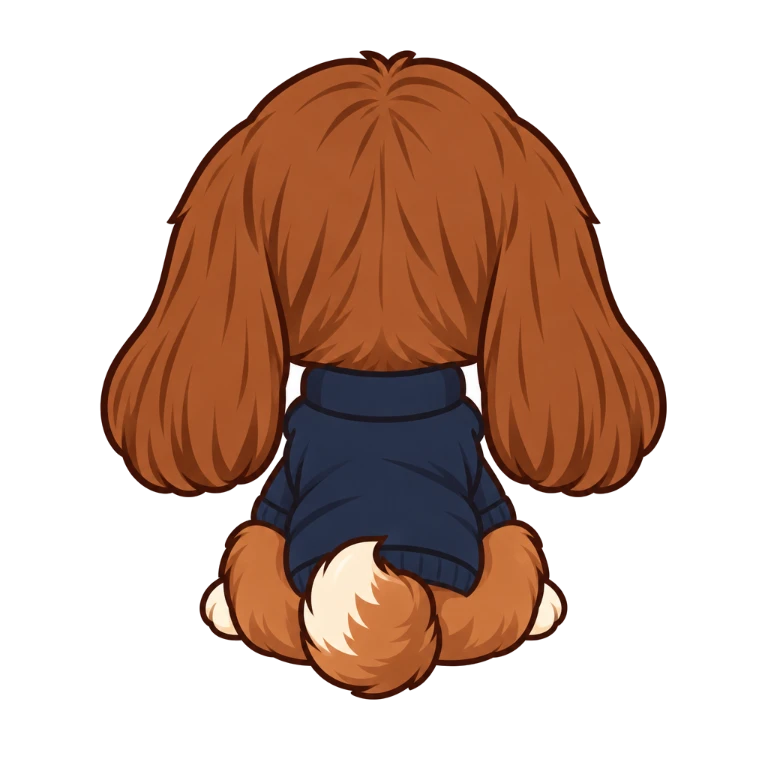
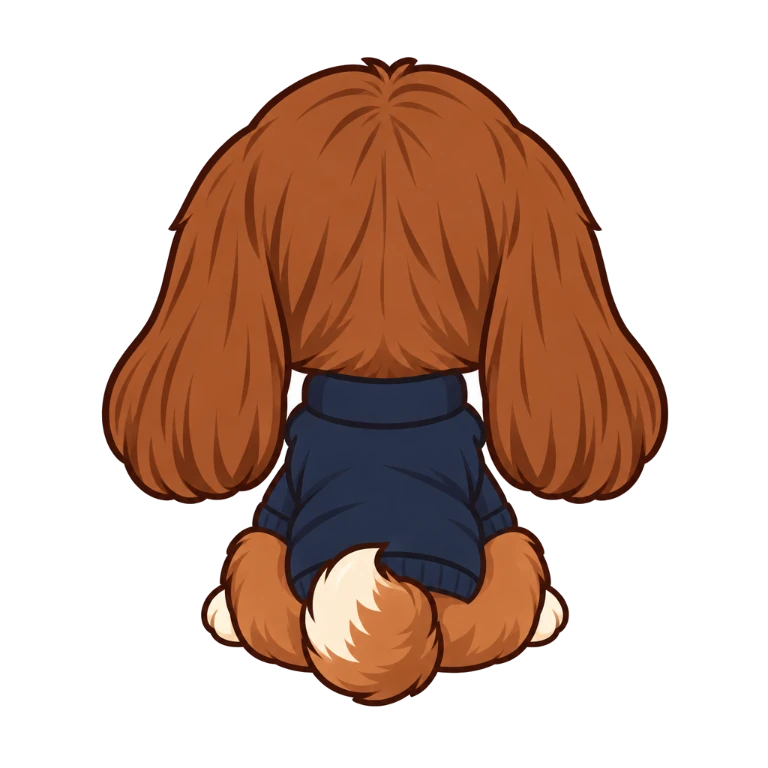
Update the training game: turn-round frames, warp, latest rig changes

Changed region(s): [[0.125, 0.0625, 0.875, 0.9375], [0.75, 0.25, 0.7812, 0.3125], [0.5312, 0.3125, 0.5625, 0.3438]]

diff --git a/train-rig.js b/train-rig.js
@@ -12,7 +12,11 @@
 // All numbers are in the units of her 1024 px picture, laid in the middle of a larger square (PAD units of room on every side for props and the little things that float up).
 // The first puppets (a head drawn as SVG, then a head from the image model with the glasses, eyes and brows cut from her avatar laid over it) are in archive/.
 
+import { createWarp } from "./train-warp.js";
+
 export const SIDE = 1184, PAD = 80;
+// She can turn all the way round: the pictures of her seen from the front (her face of the moment), at 45, 90 and 135 degrees, from behind, and the same three mirrored for the other half of the turn.
+// h = the three-quarter / side / back-three-quarter pictures with the happy face, k = with the sad face (she turns away from him sulking).
 const U = (v) => `${((v + PAD) / SIDE) * 100}%`; // a position in her picture -> a position in the square
 const S = (v) => `${(v / SIDE) * 100}%`; // a size
 const FACES = ["sly", "sblink", "blink", "listen", "happy", "smug", "blank", "sulk", "sorry", "angry", "shock", "eat", "dizzy", "heart", "kiss", "dead", "wince"]; // the pictures of her
@@ -50,30 +54,59 @@ export const EXPR = {
   wince: { img: "wince" },
 };
 
-export function createRig(host) {
+// How her ears and tail move for each expression. ears: how far the ears swing out (degrees at the tip; negative = they hang in / back), wag: [how far the tail swings
+// each way (degrees), how many times a second], tail: where the tail rests (degrees; positive = it droops).
+const MOOD = {
+  sly: { ears: 0.5, wag: [5, 0.7], tail: 0 }, listen: { ears: 2.5, wag: [6, 1.1], tail: -2 }, happy: { ears: 4, wag: [17, 3.2], tail: -2 }, glad: { ears: 3, wag: [12, 2.4], tail: -2 },
+  smug: { ears: 1, wag: [6, 0.9], tail: 0 }, cheeky: { ears: 0.5, wag: [5, 0.8], tail: 0 }, blank: { ears: -1, wag: [1.5, 0.5], tail: 3 }, sulk: { ears: -3.5, wag: [0, 1], tail: 12 },
+  sorry: { ears: -2.5, wag: [2, 1.6], tail: 9 }, angry: { ears: -4.5, wag: [3, 2.6], tail: -3 }, shock: { ears: 3.5, wag: [0, 1], tail: -8 }, eat: { ears: 1.5, wag: [9, 2.2], tail: -1 },
+  proud: { ears: 1.5, wag: [5, 0.8], tail: -2 }, dizzy: { ears: -1, wag: [7, 1.4], tail: 2 }, heart: { ears: 3, wag: [15, 2.8], tail: -2 }, kiss: { ears: 2.5, wag: [12, 2.4], tail: -2 },
+  dead: { ears: -4, wag: [0, 1], tail: 14 }, wince: { ears: -4.5, wag: [0, 1], tail: -9 },
+};
+const rad = (d) => (d * Math.PI) / 180;
+
+export function createRig(host, opts = {}) {
   host.classList.add("pup");
   const box = `left:${U(0)};top:${U(0)};width:${S(1024)};height:${S(1024)}`;
   host.innerHTML = `
     <div class="pup-turn">
       <div class="pup-act"><div class="pup-pose"><div class="pup-dog">
         ${FACES.map((n) => `<img class="pup-x ${n}" src="${pic(n)}" alt="" draggable="false" style="${box}">`).join("")}
+        <canvas class="pup-gl" style="${box}" hidden></canvas>
       </div><svg class="pup-fx" viewBox="0 0 ${SIDE} ${SIDE}" aria-hidden="true"><g transform="translate(${PAD} ${PAD})">${FACE_FX}</g></svg></div></div>
-      <div class="pup-back" aria-hidden="true"><img src="${pic("back")}" alt="" draggable="false" style="${box}"></div>
+      <div class="pup-views" aria-hidden="true">
+        ${["h", "k"].flatMap((v) => [45, 90, 135].flatMap((a) => [`<img class="vw ${v}${a}" src="${pic(v + a)}" alt="" draggable="false" style="${box}">`, `<img class="vw mir ${v}${a}" src="${pic(v + a)}" alt="" draggable="false" style="${box}">`])).join("")}
+        <img class="vw back" src="${pic("back")}" alt="" draggable="false" style="${box}">
+      </div>
     </div>
     <div class="pup-props"></div>
     <div class="pup-bits"></div>`;
   const $ = (s) => host.querySelector(s);
   const turn = $(".pup-turn"), act = $(".pup-act"), pose = $(".pup-pose"), dog = $(".pup-dog"), props = $(".pup-props"), bits = $(".pup-bits");
   const face = Object.fromEntries(FACES.map((n) => [n, $(`.pup-x.${n}`)]));
-  const ready = Promise.all([...host.querySelectorAll("img")].map((i) => (i.decode ? i.decode().catch(() => {}) : Promise.resolve())));
   const calm = typeof matchMedia === "function" && matchMedia("(prefers-reduced-motion: reduce)").matches;
   let current = "sly", shown = "";
+  let warp = null, glDirty = true;
+  const canvas = $(".pup-gl");
+  const decoded = Promise.all([...host.querySelectorAll("img")].map((i) => (i.decode ? i.decode().catch(() => {}) : Promise.resolve())));
+  const ready = (async () => {
+    await decoded;
+    if (opts.warp === false) return;
+    const maskImg = new Image(); maskImg.src = "assets/train/dog-masks.png";
+    try { await maskImg.decode(); } catch { return; }
+    try { warp = createWarp(canvas, maskImg); } catch { warp = null; }
+    if (!warp) return;
+    for (const [k, el] of Object.entries(face)) warp.texture(k, el);
+    canvas.hidden = false; host.classList.add("gl"); glDirty = true;
+    startLoop();
+  })();
   let blinkTimer = null, idleOn = false, breathing = null;
 
   // ─ expression ─
   function show(key) {
     if (shown === key) return;
-    shown = key;
+    shown = key; glDirty = true;
+    if (calm) drawGl(); // (with reduced motion there is no loop drawing her all the time: draw her when her face changes)
     for (const [k, el] of Object.entries(face)) el.classList.toggle("on", k === key);
   }
   function set(name, extra = {}) {
@@ -82,6 +115,36 @@ export function createRig(host) {
     show(e.img);
     const p = e.pose ?? {};
     pose.style.transform = `translate(${p.x ?? 0}%, ${p.y ?? 0}%) rotate(${p.r ?? 0}deg) scale(${p.s ?? 1})`;
+  }
+
+  // ─ her ears and tail: three springs that follow where the expression wants them to be (a little late, a little overshooting), plus a sway of their own and kicks when she moves ─
+  const spring = { L: { a: 0, v: 0 }, R: { a: 0, v: 0 }, T: { a: 0, v: 0 } };
+  const kick = (l = 0, r = l, t = 0) => { spring.L.v += l; spring.R.v += r; spring.T.v += t; }; // (degrees a second: how hard the ears and the tail are flung, positive = ears out, tail down)
+  let raf = 0, last = 0, hold = null; // (hold: a test sets the three angles by hand)
+  function startLoop() {
+    if (calm) { drawGl(0); return; }
+    const frame = (now) => {
+      if (!host.isConnected) { warp?.dispose?.(); warp = null; return; }
+      raf = requestAnimationFrame(frame);
+      const dt = Math.min(0.05, (now - (last || now)) / 1000); last = now;
+      const t = now / 1000, m = MOOD[current] ?? MOOD.sly;
+      const want = { L: m.ears + 2.2 * Math.sin(t * 1.9) + 0.6 * Math.sin(t * 5.3), R: m.ears + 2.2 * Math.sin(t * 1.7 + 1.3) + 0.6 * Math.sin(t * 4.9), T: m.tail + m.wag[0] * Math.sin(t * 2 * Math.PI * m.wag[1]) };
+      for (const k of ["L", "R", "T"]) {
+        const p = spring[k], target = want[k];
+        p.v += (-110 * (p.a - target) - 11 * p.v) * dt; p.a += p.v * dt; // (a spring with a little damping: it overshoots a bit, like fur and flesh do)
+      }
+      drawGl();
+    };
+    raf = requestAnimationFrame(frame);
+  }
+  function drawGl(force) {
+    if (!warp) return;
+    const w = Math.round(Math.min(2, window.devicePixelRatio || 1) * host.getBoundingClientRect().width * (1024 / SIDE));
+    if (w > 0 && canvas.width !== w) { canvas.width = canvas.height = w; glDirty = true; }
+    // the left ear swings out clockwise (+), the right one anticlockwise (-); the tail droops clockwise (+)
+    const a = hold ?? [spring.L.a, spring.R.a, spring.T.a];
+    warp.draw(shown, [rad(a[0]), rad(-a[1]), rad(a[2])]);
+    glDirty = false;
   }
 
   // ─ little helpers ─
@@ -105,18 +168,49 @@ export function createRig(host) {
   }
 
   // ─ the scenes ─ (what she does when she is told, and what she does when she is rewarded or punished)
-  const hop = (h = -9, ms = 420) => run(act, [{ transform: tf() }, { transform: tf({ y: h }), offset: 0.45 }, { transform: tf() }], { duration: ms, easing: "ease-out" });
-  const shake = (amp = 2.5, ms = 420) => run(act, [{ transform: tf() }, { transform: tf({ x: -amp }) }, { transform: tf({ x: amp }) }, { transform: tf({ x: -amp / 2 }) }, { transform: tf() }], { duration: ms, easing: "linear" });
+  const hop = (h = -9, ms = 420) => { kick(-120, -120, 100); return hop_(h, ms); };
+  const hop_ = (h, ms) => run(act, [{ transform: tf() }, { transform: tf({ y: h }), offset: 0.45 }, { transform: tf() }], { duration: ms, easing: "ease-out" });
+  const shake = (amp = 2.5, ms = 420) => { kick(80, 80, 120); return shake_(amp, ms); };
+  const shake_ = (amp, ms) => run(act, [{ transform: tf() }, { transform: tf({ x: -amp }) }, { transform: tf({ x: amp }) }, { transform: tf({ x: -amp / 2 }) }, { transform: tf() }], { duration: ms, easing: "linear" });
   const frisbeeSvg = `<svg viewBox="0 0 120 50"><ellipse cx="60" cy="30" rx="56" ry="18" fill="#2f8fe0"/><ellipse cx="60" cy="24" rx="56" ry="18" fill="#58b0ff" stroke="${INK}" stroke-width="5"/><ellipse cx="60" cy="24" rx="30" ry="8" fill="none" stroke="#fff" stroke-width="5" opacity=".8"/></svg>`;
   const pawSvg = `<svg viewBox="0 0 120 120"><path d="M20 70C14 44 36 24 62 28C92 32 106 56 98 80C92 100 66 108 44 102C28 98 22 86 20 70Z" fill="${CREAM}" stroke="${FUR_DARK}" stroke-width="7"/><ellipse cx="60" cy="74" rx="22" ry="17" fill="${PINK}"/><circle cx="36" cy="48" r="8" fill="${PINK}"/><circle cx="56" cy="38" r="8" fill="${PINK}"/><circle cx="78" cy="40" r="8" fill="${PINK}"/><circle cx="94" cy="56" r="8" fill="${PINK}"/></svg>`;
   const handSvg = (fill = "#f0bd96") => `<svg viewBox="0 0 140 160"><path d="M30 150C16 120 18 84 30 62L36 36C38 26 52 26 54 36L58 58L62 24C64 14 78 14 80 24L82 58L88 30C90 20 104 22 104 32L102 64L112 46C118 38 130 44 126 54C118 78 118 108 106 140L100 152Z" fill="${fill}" stroke="${INK}" stroke-width="7" stroke-linejoin="round"/></svg>`;
   const fingerSvg = `<svg viewBox="0 0 80 160"><path d="M18 156C10 120 14 80 24 44C26 30 46 30 48 44C58 80 62 120 56 156Z" fill="#f0bd96" stroke="${INK}" stroke-width="7" stroke-linejoin="round"/></svg>`;
   const px = (n) => (host.getBoundingClientRect().width / SIDE) * n; // units of the picture -> screen pixels (so a move is the same share of her at any width)
   const T = (x = 0, y = 0, more = "") => `translate(${px(x)}px, ${px(y)}px) ${more}`.trim();
-  const spinTo = (angles, ms, o = {}) => { // she turns round (front -> back -> front ...): `angles` are the degrees she is turned by, one keyframe each
-    const view = `perspective(${Math.round(px(SIDE) * 1.6)}px)`;
-    return run(turn, angles.map((a) => ({ transform: `${view} rotateY(${a}deg)` })), { duration: ms, easing: "ease-in-out", ...o });
-  };
+  // ─ turning round: front -> 45 -> side -> 135 -> back -> 135 -> side -> 45 -> front; the picture of the angle she is at is shown, the next one fades in over it ─
+  let viewSet = "h", turnToken = 0, turnedAt = 0;
+  const KEYS = () => [act, ...[45, 90, 135].map((a) => $(`.vw.${viewSet}${a}:not(.mir)`)), $(".vw.back"), ...[135, 90, 45].map((a) => $(`.vw.mir.${viewSet}${a}`))];
+  const WIDTH = { h: [763, 718, 597, 596, 756, 596, 597, 718], k: [763, 707, 599, 615, 756, 615, 599, 707] }; // how wide she is (pixels of her picture) at each of the eight angles
+  function showAngle(deg) {
+    turnedAt = deg;
+    const phi = ((deg % 360) + 360) % 360, i = Math.floor(phi / 45) % 8, j = (i + 1) % 8, t = (phi % 45) / 45;
+    const w = t <= 0.35 ? 0 : t >= 0.65 ? 1 : (t - 0.35) / 0.3; // she is at one picture, then the next one fades in over it quickly
+    const wd = WIDTH[viewSet], k = KEYS();
+    k.forEach((el, n) => {
+      el.style.opacity = n === i ? "1" : n === j ? String(w) : "0";
+      // between two pictures her width changes smoothly (the one she leaves narrows or widens towards the next, the next starts from the width of the last), so the two outlines meet when they cross-fade
+      const sx = n === i ? 1 + (wd[j] / wd[i] - 1) * t : n === j ? wd[i] / wd[j] + (1 - wd[i] / wd[j]) * t : 1;
+      el.style.transform = el.classList.contains("mir") ? `scaleX(${-sx})` : sx === 1 ? "" : `scaleX(${sx})`;
+    });
+  }
+  const easeInOut = (p) => (p < 0.5 ? 2 * p * p : 1 - Math.pow(-2 * p + 2, 2) / 2);
+  function turnTo(from, to, ms) { // turn from one angle to another (degrees) in `ms`
+    const token = ++turnToken;
+    if (calm) { showAngle(to); return Promise.resolve(); }
+    return new Promise((resolve) => {
+      const t0 = performance.now();
+      const done = () => { if (token === turnToken) showAngle(to); resolve(); };
+      const guard = setTimeout(done, ms + 400); // (a hidden page gets no animation frames: do not wait for them for ever)
+      const step = (now) => {
+        if (token !== turnToken) { clearTimeout(guard); return resolve(); }
+        const p = Math.min(1, (now - t0) / ms);
+        showAngle(from + (to - from) * easeInOut(p));
+        if (p < 1) requestAnimationFrame(step); else { clearTimeout(guard); resolve(); }
+      };
+      requestAnimationFrame(step);
+    });
+  }
   const place = (el, cx, cy, w, h = w) => { el.style.cssText += `;left:${U(cx - w / 2)};top:${U(cy - h / 2)};width:${S(w)};height:${S(h)}`; return el; };
   const dish = (id) => `<img src="assets/dishes/${id === "hotpot" ? "hotpot" : id}.png" alt="" draggable="false" style="width:100%;height:100%;object-fit:contain">`;
 
@@ -125,7 +219,7 @@ export function createRig(host) {
     async sit(o) {
       if (o === "no") { set("sly"); await run(act, [{ transform: tf() }, { transform: tf({ r: 5, x: 2 }) }, { transform: tf() }], { duration: 700 }); return; }
       if (o === "half") { set("blank"); await run(act, [{ transform: tf() }, { transform: tf({ y: 5, sy: 0.96 }) }, { transform: tf() }, { transform: tf({ y: 2 }) }, { transform: tf() }], { duration: 1100 }); return; }
-      set("listen"); await run(act, [{ transform: tf() }, { transform: tf({ y: 7, sy: 0.94 }), offset: 0.4 }, { transform: tf({ y: 6, sy: 0.95 }) }], { duration: 650, fill: "forwards" });
+      set("listen"); kick(-70, -70, 60); await run(act, [{ transform: tf() }, { transform: tf({ y: 7, sy: 0.94 }), offset: 0.4 }, { transform: tf({ y: 6, sy: 0.95 }) }], { duration: 650, fill: "forwards" });
       set("happy"); await sleep(500); act.getAnimations().forEach((a) => a.cancel());
     },
     async shake(o) {
@@ -140,7 +234,7 @@ export function createRig(host) {
     async come(o) {
       if (o === "no") { set("sly"); await run(act, [{ transform: tf() }, { transform: tf({ sx: 0.9, sy: 0.9, y: -3 }) }, { transform: tf({ sx: 0.9, sy: 0.9, y: -3 }) }], { duration: 650, fill: "forwards" }); await sleep(450); act.getAnimations().forEach((a) => a.cancel()); return; }
       if (o === "half") { set("blank"); await run(act, [{ transform: tf() }, { transform: tf({ sx: 1.06, sy: 1.06 }) }, { transform: tf({ sx: 1.0, sy: 1.0 }) }, { transform: tf({ sx: 1.04, sy: 1.04 }) }, { transform: tf() }], { duration: 1500 }); return; }
-      set("happy"); await run(act, [{ transform: tf({ sx: 0.92, sy: 0.92 }) }, { transform: tf({ sx: 1.14, sy: 1.14, y: -2 }), offset: 0.55 }, { transform: tf({ sx: 1.1, sy: 1.1 }) }], { duration: 750, easing: "ease-out", fill: "forwards" }); await sleep(450);
+      set("happy"); kick(90, 90, -110); await run(act, [{ transform: tf({ sx: 0.92, sy: 0.92 }) }, { transform: tf({ sx: 1.14, sy: 1.14, y: -2 }), offset: 0.55 }, { transform: tf({ sx: 1.1, sy: 1.1 }) }], { duration: 750, easing: "ease-out", fill: "forwards" }); await sleep(450);
       await run(act, [{ transform: tf({ sx: 1.1, sy: 1.1 }) }, { transform: tf() }], { duration: 300 }); act.getAnimations().forEach((a) => a.cancel());
     },
     async bark(o) {
@@ -153,10 +247,10 @@ export function createRig(host) {
     },
     async spin(o) {
       if (o === "no") { set("sly"); await sleep(450); return; }
-      if (o === "half") { set("blank"); await spinTo([0, 180, 130, 0], 1700); return; } // turns her back, loses interest, turns round again
-      set("happy");
-      await Promise.all([spinTo([0, 720], 1500), run(act, [{ transform: tf() }, { transform: tf({ y: -4 }), offset: 0.5 }, { transform: tf() }], { duration: 1500 })]); // two smooth turns: front, back, front, back, front
-      set("dizzy"); await run(act, [{ transform: tf({ r: 4 }) }, { transform: tf({ r: -4 }) }, { transform: tf({ r: 3 }) }, { transform: tf({ r: -3 }) }, { transform: tf() }], { duration: 650 }); set("happy");
+      if (o === "half") { set("blank"); viewSet = "k"; await turnTo(0, 180, 800); await sleep(250); await turnTo(180, 0, 650); return; } // turns her back, loses interest, turns round again
+      set("happy"); viewSet = "h";
+      await Promise.all([turnTo(0, 720, 1700), run(turn, [{ transform: "translateY(0)" }, { transform: `translateY(${px(-30)}px)`, offset: 0.5 }, { transform: "translateY(0)" }], { duration: 1700 })]); // two smooth turns all the way round
+      kick(260, 260, -240); set("dizzy"); await run(act, [{ transform: tf({ r: 4 }) }, { transform: tf({ r: -4 }) }, { transform: tf({ r: 3 }) }, { transform: tf({ r: -3 }) }, { transform: tf() }], { duration: 650 }); set("happy");
     },
     async frisbee(o) {
       set("listen");
@@ -195,7 +289,7 @@ export function createRig(host) {
     async pat(o) {
       const h = prop(handSvg()); place(h, 520, 30, 320, 366);
       await run(h, [{ transform: `${T(0, -80)}`, opacity: 0 }, { transform: "translate(0,0)", opacity: 1 }], { duration: 300, fill: "forwards" });
-      set(o === "no" ? "proud" : "happy");
+      set(o === "no" ? "proud" : "happy"); kick(-110, -110, 0);
       for (let i = 0; i < 3; i++) await run(h, [{ transform: "translate(0,0)" }, { transform: `${T(0, 34)}` }, { transform: "translate(0,0)" }], { duration: 360 });
       burst("hearts", o === "ok" ? 4 : 2);
       await run(h, [{ opacity: 1 }, { opacity: 0, transform: `${T(0, -80)}` }], { duration: 260, fill: "forwards" }); h.remove();
@@ -243,11 +337,11 @@ export function createRig(host) {
       fg.remove(); set(o === "ok" ? "angry" : "sorry"); await sleep(450);
     },
     async timeout(o) {
-      set(o === "ok" ? "sulk" : "sorry");
-      await spinTo([0, 180], 520, { fill: "forwards" }); // turns to face the wall
+      set(o === "ok" ? "sulk" : "sorry"); viewSet = "k";
+      await turnTo(0, 180, 600); // turns to face the wall
       await sleep(1100);
-      await spinTo([180, 360], 520, { fill: "forwards" }); // and round again, the same way
-      turn.getAnimations().forEach((a) => a.cancel());
+      await turnTo(180, 360, 600); // and round again, the same way
+      showAngle(0);
     },
     async confiscate(o) {
       const d = prop(dish("noodles")); place(d, 520, 950, 330);
@@ -262,13 +356,13 @@ export function createRig(host) {
 
     // ── events ──
     async bite() {
-      set("angry");
+      set("angry"); kick(-220, -220, 160);
       await run(act, [{ transform: tf() }, { transform: tf({ sx: 0.9, sy: 0.9 }) }, { transform: tf({ sx: 1.45, sy: 1.45, y: 2 }), offset: 0.7 }, { transform: tf({ sx: 1.35, sy: 1.35, y: 2 }) }], { duration: 650, fill: "forwards", easing: "ease-in" });
       burst("sparks", 5, [520, 500]); await shake(3, 380); await sleep(250);
       act.getAnimations().forEach((a) => a.cancel()); set("shock"); await sleep(450); set("sorry");
     },
     async ride() { set("proud"); burst("stars", 6); await run(act, [{ transform: tf() }, { transform: tf({ y: -5, r: -3, sx: 1.06, sy: 1.06 }) }, { transform: tf({ y: -4, r: -3, sx: 1.06, sy: 1.06 }) }], { duration: 600, fill: "forwards" }); await sleep(700); act.getAnimations().forEach((a) => a.cancel()); },
-    async strike() { set("angry"); await spinTo([0, 180], 520, { fill: "forwards" }); }, // turns her back on him for good (reset() or the next screen brings her round)
+    async strike() { set("angry"); viewSet = "k"; await turnTo(0, 180, 600); }, // turns her back on him for good (reset() or the next screen brings her round)
   };
 
   // ─ coming and going ─
@@ -282,6 +376,7 @@ export function createRig(host) {
   function reset(expr = "sly") {
     for (const a of host.getAnimations({ subtree: true })) a.cancel();
     host.classList.remove("fx-drool");
+    turnToken++; showAngle(0);
     act.style.transform = "";
     props.innerHTML = "";
     set(expr);
@@ -306,6 +401,7 @@ export function createRig(host) {
     blinkTimer = setTimeout(tick, 1400);
   }
 
+  showAngle(0);
   set("sly");
-  return { el: host, ready, set, act: act_, reset, burst, idle, get expr() { return current; }, expressions: Object.keys(EXPR) };
+  return { el: host, ready, set, act: act_, reset, burst, idle, get expr() { return current; }, set hold(v) { hold = v; }, get motion() { return { ears: [spring.L.a, spring.R.a], tail: spring.T.a, warp: !!warp }; }, expressions: Object.keys(EXPR) };
 }

diff --git a/data.js b/data.js
@@ -1,1 +1,1 @@
[2 lines of base64/hex data omitted]

diff --git a/train-warp.js b/train-warp.js
@@ -1,0 +1,81 @@
+// Makes her ears and her tail move. Her pictures are flat drawings in which the ears are one fur with the hair of her head, so they cannot be cut out and turned like
+// separate pieces; instead the picture is drawn by a small shader that pulls the pixels of the three parts about: each part bends a little round a point at its root (the
+// further from the root, the more it turns, so an ear sways like hair and the tail like a tail), and a mask (assets/train/dog-masks.png, made by tools/pup_masks.py) says
+// which pixels belong to which part. The rest of the picture is not touched. All her pictures are of one size and place, so the same masks fit every face.
+//
+//   const warp = createWarp(canvas, maskImage)    null when the browser has no WebGL (the rig then keeps showing the plain pictures)
+//   warp.texture("happy", image)                  hand over a picture of her
+//   warp.draw("happy", [leftEar, rightEar, tail]) draw it, the three angles in radians (positive = clockwise: the end of the part swings to the left)
+
+// the roots and lengths of the parts, in the units of her 1024 px picture
+const EAR_L = { x: 262, y: 262, len: 473 }, EAR_R = { x: 770, y: 250, len: 450 }, TAIL = { x: 742, y: 838, len: 190 };
+
+const VERT = `attribute vec2 p; varying vec2 uv;
+void main() { uv = vec2(p.x * 0.5 + 0.5, 0.5 - p.y * 0.5); gl_Position = vec4(p, 0.0, 1.0); }`;
+const FRAG = `#ifdef GL_FRAGMENT_PRECISION_HIGH
+precision highp float;
+#else
+precision mediump float;
+#endif
+varying vec2 uv; uniform sampler2D tex; uniform sampler2D mask; uniform vec3 ang;
+// where the pixel that is drawn at P comes from, when the part is turned clockwise by a round (x, y) (the inverse of the turn)
+vec2 back(vec2 P, vec2 pivot, float a) { float c = cos(a), s = sin(a); vec2 v = P - pivot; return pivot + vec2(c * v.x + s * v.y, -s * v.x + c * v.y); }
+void main() {
+  vec3 m = texture2D(mask, uv).rgb;
+  vec2 P = uv * 1024.0, q = P;
+  if (m.r > 0.003) { float b = pow(clamp((P.y - ${EAR_L.y.toFixed(1)}) / ${EAR_L.len.toFixed(1)}, 0.0, 1.0), 1.25); q += back(P, vec2(${EAR_L.x.toFixed(1)}, ${EAR_L.y.toFixed(1)}), ang.x * b * m.r) - P; }
+  if (m.g > 0.003) { float b = pow(clamp((P.y - ${EAR_R.y.toFixed(1)}) / ${EAR_R.len.toFixed(1)}, 0.0, 1.0), 1.25); q += back(P, vec2(${EAR_R.x.toFixed(1)}, ${EAR_R.y.toFixed(1)}), ang.y * b * m.g) - P; }
+  if (m.b > 0.003) { float b = clamp(length(P - vec2(${TAIL.x.toFixed(1)}, ${TAIL.y.toFixed(1)})) / ${TAIL.len.toFixed(1)}, 0.0, 1.0); q += back(P, vec2(${TAIL.x.toFixed(1)}, ${TAIL.y.toFixed(1)}), ang.z * b * m.b) - P; }
+  gl_FragColor = texture2D(tex, clamp(q / 1024.0, 0.0, 1.0));
+}`;
+
+export function createWarp(canvas, maskImage) {
+  const gl = canvas.getContext("webgl", { alpha: true, premultipliedAlpha: true, antialias: false });
+  if (!gl) return null;
+  const shader = (type, src) => { const s = gl.createShader(type); gl.shaderSource(s, src); gl.compileShader(s); if (!gl.getShaderParameter(s, gl.COMPILE_STATUS)) throw new Error(gl.getShaderInfoLog(s)); return s; };
+  let prog;
+  try {
+    prog = gl.createProgram();
+    gl.attachShader(prog, shader(gl.VERTEX_SHADER, VERT));
+    gl.attachShader(prog, shader(gl.FRAGMENT_SHADER, FRAG));
+    gl.linkProgram(prog);
+    if (!gl.getProgramParameter(prog, gl.LINK_STATUS)) throw new Error(gl.getProgramInfoLog(prog));
+  } catch (e) { console.warn("no warp:", e.message); return null; }
+  gl.useProgram(prog);
+  const buf = gl.createBuffer();
+  gl.bindBuffer(gl.ARRAY_BUFFER, buf);
+  gl.bufferData(gl.ARRAY_BUFFER, new Float32Array([-1, -1, 1, -1, -1, 1, 1, 1]), gl.STATIC_DRAW);
+  const loc = gl.getAttribLocation(prog, "p");
+  gl.enableVertexAttribArray(loc);
+  gl.vertexAttribPointer(loc, 2, gl.FLOAT, false, 0, 0);
+  const uAng = gl.getUniformLocation(prog, "ang");
+  gl.uniform1i(gl.getUniformLocation(prog, "tex"), 0);
+  gl.uniform1i(gl.getUniformLocation(prog, "mask"), 1);
+  const make = (img, premultiply) => {
+    const t = gl.createTexture();
+    gl.bindTexture(gl.TEXTURE_2D, t);
+    gl.pixelStorei(gl.UNPACK_PREMULTIPLY_ALPHA_WEBGL, premultiply);
+    gl.texImage2D(gl.TEXTURE_2D, 0, gl.RGBA, gl.RGBA, gl.UNSIGNED_BYTE, img);
+    for (const [k, v] of [[gl.TEXTURE_MIN_FILTER, gl.LINEAR], [gl.TEXTURE_MAG_FILTER, gl.LINEAR], [gl.TEXTURE_WRAP_S, gl.CLAMP_TO_EDGE], [gl.TEXTURE_WRAP_T, gl.CLAMP_TO_EDGE]]) gl.texParameteri(gl.TEXTURE_2D, k, v);
+    return t;
+  };
+  gl.activeTexture(gl.TEXTURE1);
+  make(maskImage, false);
+  gl.activeTexture(gl.TEXTURE0);
+  const textures = {};
+  return {
+    texture(key, img) { textures[key] = make(img, true); },
+    dispose() { gl.getExtension("WEBGL_lose_context")?.loseContext(); }, // (a browser only keeps a few WebGL contexts: let go of this one when her page is gone)
+    draw(key, angles) {
+      const t = textures[key];
+      if (!t) return;
+      gl.viewport(0, 0, canvas.width, canvas.height);
+      gl.activeTexture(gl.TEXTURE0);
+      gl.bindTexture(gl.TEXTURE_2D, t);
+      gl.uniform3f(uAng, angles[0], angles[1], angles[2]);
+      gl.clearColor(0, 0, 0, 0);
+      gl.clear(gl.COLOR_BUFFER_BIT);
+      gl.drawArrays(gl.TRIANGLE_STRIP, 0, 4);
+    },
+  };
+}

diff --git a/train.css b/train.css
@@ -25,15 +25,16 @@ body {
    One picture of her for every face she can make (assets/train/dog-*.webp, all the same size and place, drawn by the image model); only the one she is making shows. */
 .pup { position: relative; width: 100%; aspect-ratio: 1; container-type: inline-size; user-select: none; -webkit-user-select: none; }
 .pup img { position: absolute; display: block; max-width: none; pointer-events: none; -webkit-user-drag: none; }
-.pup-turn, .pup-act, .pup-pose, .pup-dog, .pup-back, .pup-props, .pup-bits, .pup-fx { position: absolute; inset: 0; }
+.pup-turn, .pup-act, .pup-views, .pup-pose, .pup-dog, .pup-props, .pup-bits, .pup-fx { position: absolute; inset: 0; }
 .pup-pose { transition: transform .26s ease; }
 .pup-dog { transform-origin: 50% 88%; }
+.pup canvas { position: absolute; display: block; max-width: none; pointer-events: none; }
+.pup.gl .pup-x { display: none; } /* (with the canvas working, the plain pictures are only where the canvas takes its textures from) */
 .pup-x { opacity: 0; }
 .pup-x.on { opacity: 1; }
-/* she can turn all the way round: the front of her and the back of her are the two faces of one turntable */
-.pup-turn { transform-style: preserve-3d; }
-.pup-act, .pup-back { -webkit-backface-visibility: hidden; backface-visibility: hidden; }
-.pup-back { transform: rotateY(180deg); }
+/* she can turn all the way round: the pictures of her seen from the side and from behind (the rig fades from one to the next); the mirrored ones are the other half of the turn */
+.vw { opacity: 0; }
+.vw.mir { transform: scaleX(-1); } /* (the rig sets the transform of these while she turns) */
 .pup-props, .pup-bits { pointer-events: none; }
 .pup-prop { position: absolute; }
 .pup-prop svg { display: block; width: 100%; height: 100%; overflow: visible; }

diff --git a/train.js b/train.js
@@ -237,7 +237,7 @@ async function lab() {
     cell.className = "cell";
     cell.innerHTML = `<div class="r"></div>${name}`;
     grid.append(cell);
-    const r = createRig(cell.querySelector(".r"));
+    const r = createRig(cell.querySelector(".r"), { warp: false });
     r.ready.then(() => r.set(name));
     cell.onclick = () => big.reset(name);
   }
